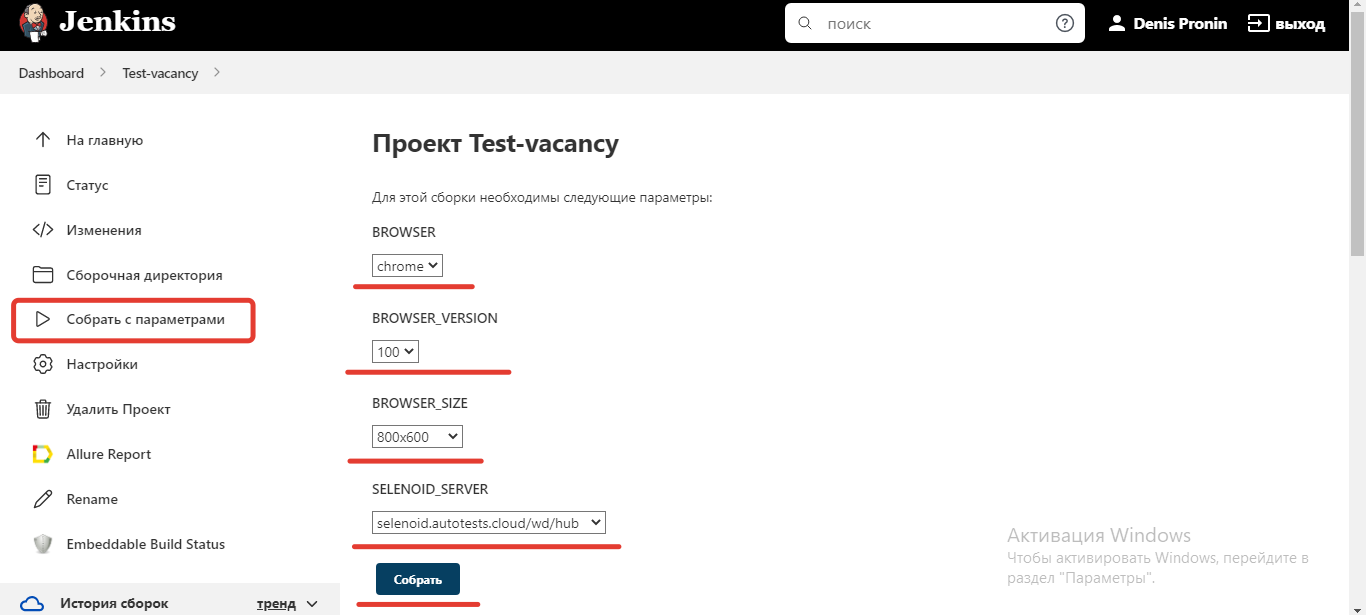
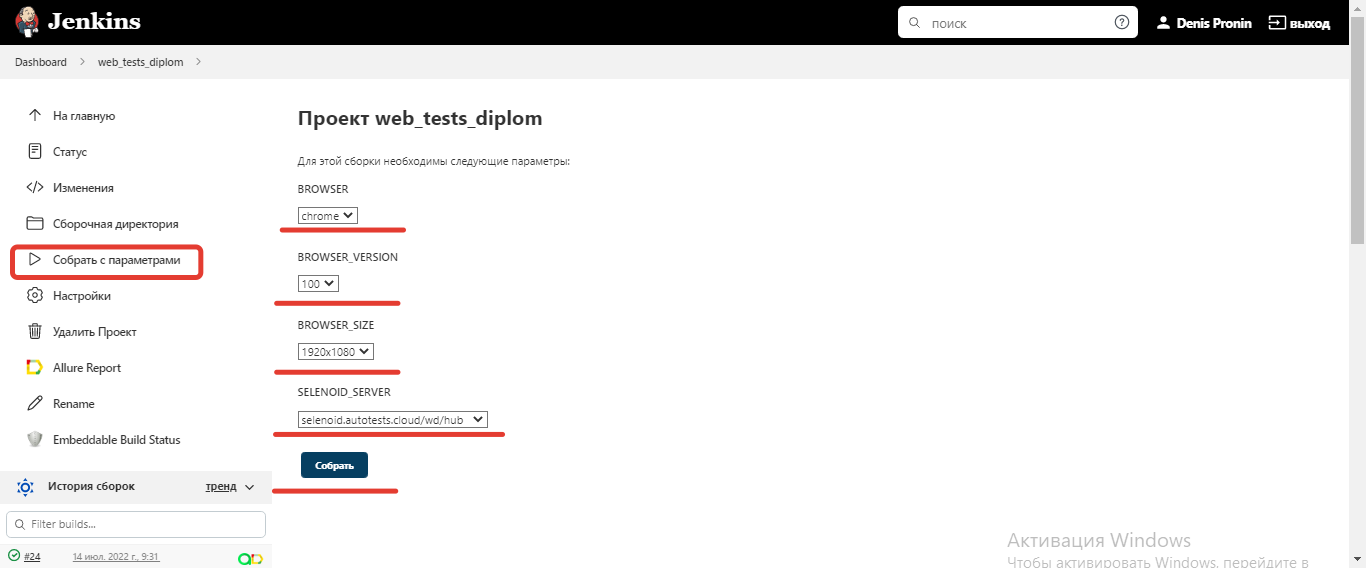
add Readme

diff --git a/README.md b/README.md
@@ -70,7 +70,7 @@
 
 <a name="jenkins-Jenkins-job"></a>
 ###   Сборка в Jenkins
-### <img width="6%" title="Jenkins" src="images/logo/Jenkins.svg"> Запуск тестов в [Jenkins](https://jenkins.autotests.cloud/job/Test-vacancy/)
+### <img width="6%" title="Jenkins" src="images/logo/Jenkins.svg"> Запуск тестов в [Jenkins](https://jenkins.autotests.cloud/job/web_tests_diplom/)
 *Для запуска сборки необходимо нажать кнопку <code><strong>*Собрать с параметрами*</strong></code> и указать значения параметров.*
 
 <p align="center">
